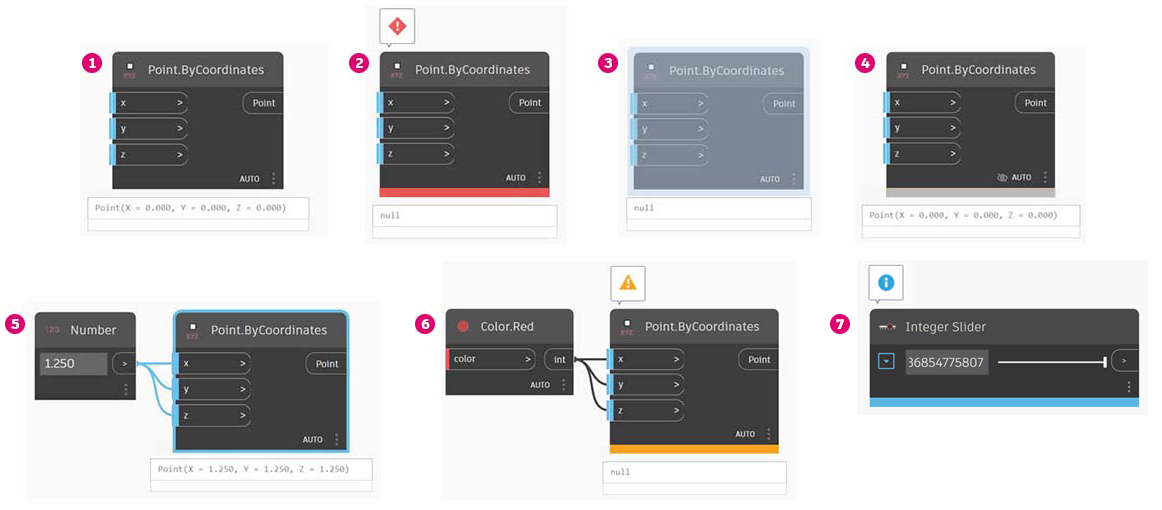
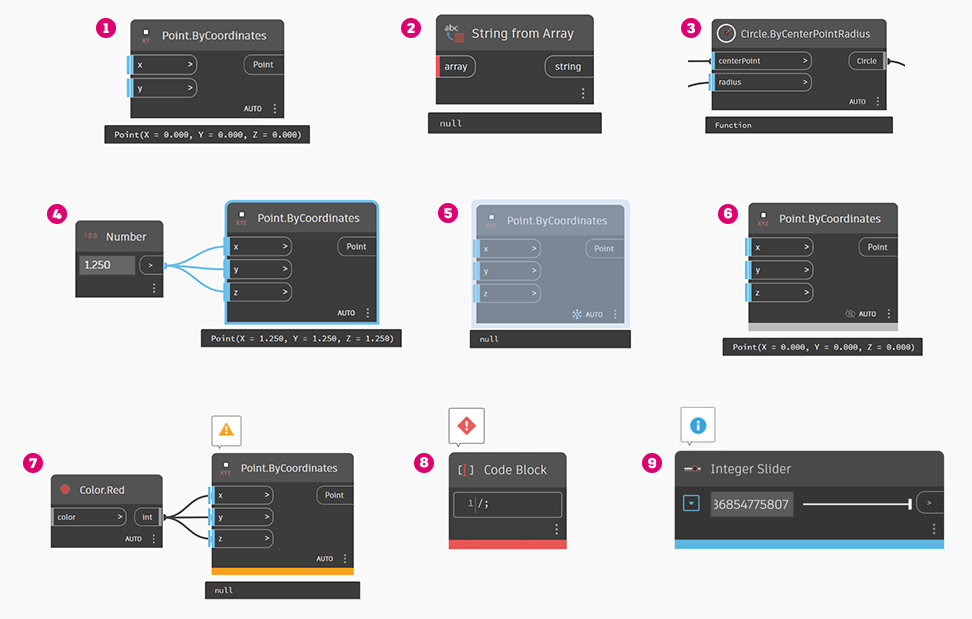
GitBook: [#228] DYN-4633 Updating node states screenshot and caption

diff --git a/4_nodes_and_wires/README.md b/4_nodes_and_wires/README.md
@@ -41,13 +41,15 @@ Hovering or right-clicking over the Name or Ports presents additional informatio
 
 ![](<../.gitbook/assets/nodes and wires - node states.png>)
 
-> 1. Active - Nodes with a Dark Grey Name background are well-connected and have all of their inputs successfully connected.
-> 2. Error State - Red status bar underneath the Node indicates that the Node is in an Error State.
-> 3. Freeze - A Transparent node has Freeze turned on, suspending the execution of the node.
-> 4. Background Preview - Grey status bar underneath the Node and eye icon <img src="images/nodes and wires - preview off.jpg" alt="" data-size="line"> indicates that the geometry preview is switched off.
-> 5. Selected - Currently selected Nodes have an Aqua highlight on their border
-> 6. Warning - Yellow status bar underneath the Node indicates Warning state, meaning they either lack input data or may have incorrect data types.
-> 7. Info - Blue status bar underneath the Node indicates Info state, which flags useful information about nodes. This state can be triggered when approaching a maximum value supported by the node, using a node in a way that has potential performance impacts, etc.
+> 1. Satisfied inputs - A node with blue vertical bars over its input ports is well-connected and has all of its inputs successfully connected.
+> 2. Unsatisfied inputs – A node with a red vertical bar over one or more input ports needs to have those inputs connected.
+> 3. Function – A node that outputs a function and has a gray vertical bar over an output port is a function node.
+> 4. Selected - Currently selected nodes have an aqua highlight around their border.
+> 5. Frozen - A translucent blue node is frozen, suspending the execution of the node.
+> 6. Preview off - A gray status bar underneath the node and an eye icon <img src="images/nodes and wires - preview off.jpg" alt="" data-size="line"> indicate that geometry preview for the node is switched off.
+> 7. Warning - A yellow status bar underneath the node indicates Warning state, meaning the node either lacks input data or may have incorrect data types.
+> 8. Error - A red status bar underneath the node indicates that the node is in an Error state.
+> 9. Info - Blue status bar underneath the node indicates Info state, which flags useful information about nodes. This state can be triggered when approaching a maximum value supported by the node, using a node in a way that has potential performance impacts, etc.
 
 #### Handling Error or Warning Nodes
 
